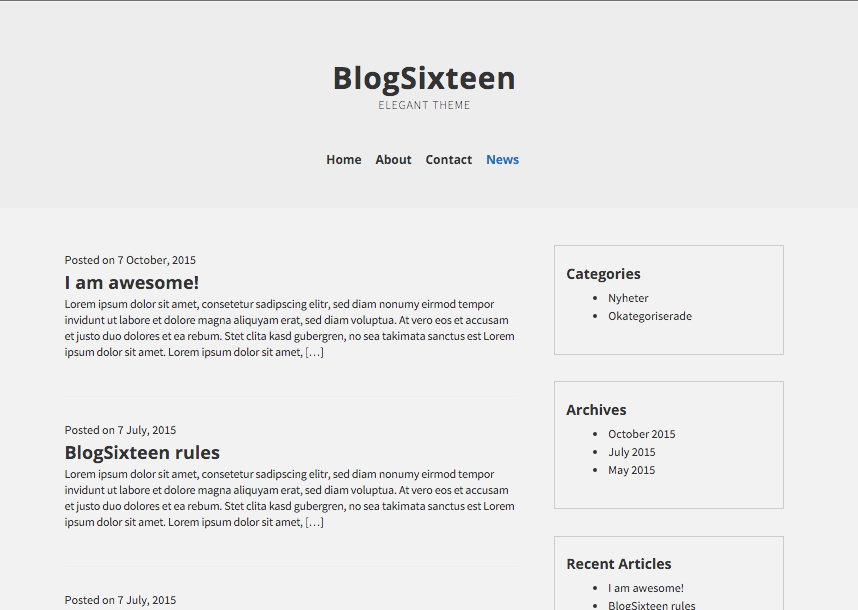
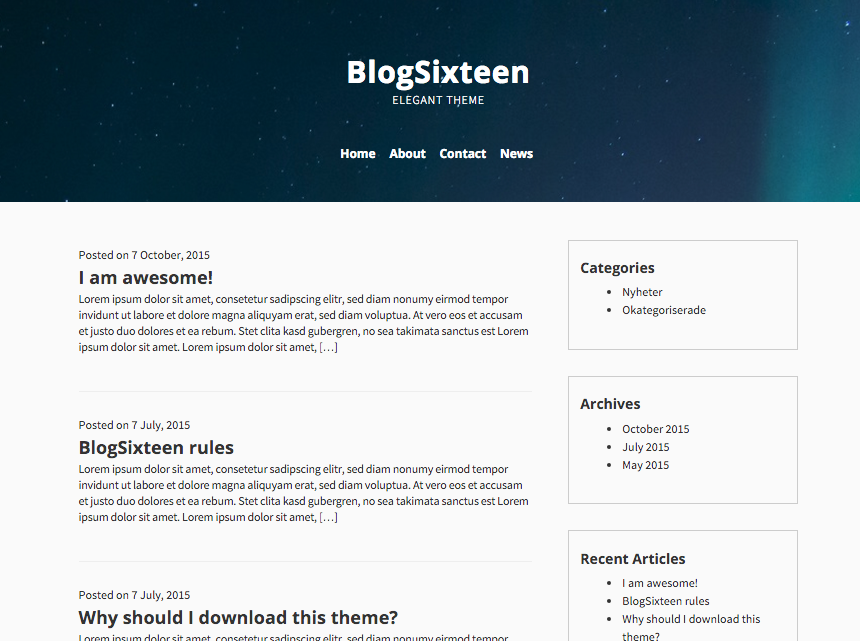
Added header background

diff --git a/style.css b/style.css
@@ -849,10 +849,6 @@ embed, iframe, object {
 	max-width: 780px;
 }
 
-#masthead {
-	background: #eee;
-}
-
 #colophon {
 	margin: 20px 0 0 0;
 }

diff --git a/inc/theme-colors.php b/inc/theme-colors.php
@@ -74,27 +74,6 @@ function blogsixteen_register_theme_customizer( $wp_customize ) {
     );
 
     $wp_customize->add_setting(
-        'blogsixteen_header_background',
-        array(
-            'default'     => '#222',
-            'sanitize_callback' => 'esc_url_raw'
-        )
-    );
-
-    $wp_customize->add_control(
-        new WP_Customize_Color_Control(
-            $wp_customize,
-            'header_background',
-            array(
-                'label'      => __( 'Header background', 'blogsixteen' ),
-                'section'    => 'colors',
-                'settings'   => 'blogsixteen_header_background',
-                'sanitize_callback' => 'esc_url_raw'
-            )
-        )
-    );
-
-    $wp_customize->add_setting(
         'blogsixteen_header_color',
         array(
             'default'     => '#fff',
@@ -151,7 +130,6 @@ function blogsixteen_customizer_css() {
         h1,h2,h3,h4,h5 { color: <?php echo get_theme_mod ( 'blogsixteen_headline_color' ); ?>; }
         .current_page_item a { color: <?php echo get_theme_mod ('blogsixteen_main_color'); ?>;}
         button, input[type="button"], input[type="reset"], input[type="submit"] { border-color: <?php echo get_theme_mod ( 'blogsixteen_main_color' ); ?>; background-color: <?php echo get_theme_mod ( 'blogsixteen_main_color' ); ?>; }
-        #masthead { background: <?php echo get_theme_mod ('blogsixteen_header_background') ?>; }
         .site-title a, .site-description, .main-navigation a { color: <?php echo get_theme_mod ('blogsixteen_header_color') ?>; }
     </style>
     <?php

diff --git a/functions.php b/functions.php
@@ -72,9 +72,8 @@ function blogsixteen_setup() {
 	) );
 
 	// Set up the WordPress core custom background feature.
-	add_theme_support( 'custom-background', apply_filters( 'blogsixteen_custom_background_args', array(
-		'default-color' => 'ffffff',
-		'default-image' => '',
+	add_theme_support( 'custom-header', apply_filters( 'blogsixteen_custom_header_args', array(
+		'default-image' => get_template_directory_uri() . '/images/header-image.jpeg',
 	) ) );
 }
 endif; // blogsixteen_setup

diff --git a/header.php b/header.php
@@ -16,8 +16,8 @@
 <meta name="viewport" content="width=device-width, initial-scale=1">
 <link rel="profile" href="http://gmpg.org/xfn/11">
 <link rel="pingback" href="<?php bloginfo( 'pingback_url' ); ?>">
-
 <?php wp_head(); ?>
+<style> #masthead { background-repeat: no-repeat; background-size: cover; background-image: url('<?php header_image(); ?>'); ;} </style>
 </head>
 
 <body <?php body_class(); ?>>
